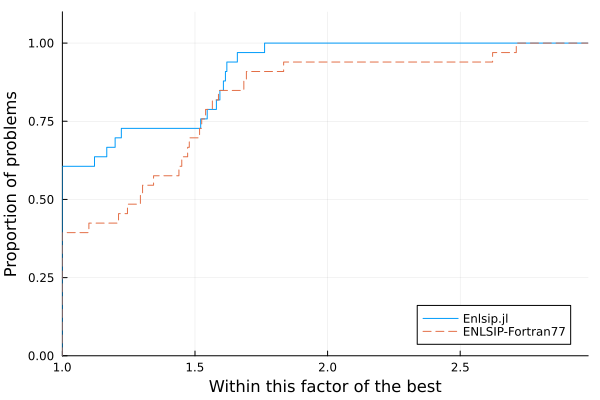
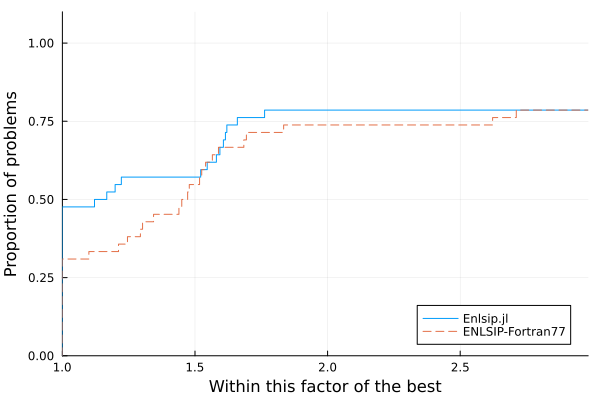
revised draft for joss

diff --git a/paper/paper.md b/paper/paper.md
@@ -29,9 +29,9 @@ bibliography: paper.bib
 
 # Summary
 
- [Enlsip.jl](https://github.com/UncertainLab/Enlsip.jl) is a Julia  [@Julia:2017] package that implements a solver for nonlinear least squares with nonlinear constraints.
+ [Enlsip.jl](https://github.com/UncertainLab/Enlsip.jl) is a Julia  [@Julia:2017] package that implements a solver for nonlinear least-squares problems with nonlinear constraints.
 
-This type of problems is mathematically formulated as:
+This type of problem is mathematically formulated as:
 \begin{equation}\label{eq:cnlls}
          \quad \begin{aligned}  
                         \quad	\min_{x \in \mathbb{R}^n}        \quad&  \dfrac{1}{2} \sum_{i=1}^{m} r_i(x)^2  \\
@@ -50,15 +50,15 @@ This package is the Julia version of ``ENLSIP`` (Easy Nonlinear Least Squares In
 
 The ``ENLSIP`` Fortran77 library has been successfully used since the early 2000s by Hydro-Québec, the main electricity supplier for the province of Quebec in Canada, to calibrate its short-term electricity demand forecast models [@grenieretal:2006], which are coded in Fortran90. Since Hydro-Québec is transitioning from Fortran77 to Julia and its systems are used in a highly critical context, the primary goal of this transition is to ensure that the replacing Julia version reproduces the results obtained with the original Fortran77 version. The conversion of the above-mentioned ``ENLSIP`` library to Julia is a crucial part of this process.
 
-Nonlinear least squares arise in a variety of model calibration scenarios. Formulation \eqref{eq:cnlls} is particularly relevant in contexts where additional constraints, such as those related to physical models, need to be satisfied. This is due to the high-risk nature of Hydro-Québec's forecasting operations. Moreover, the specific structure of the objective function in \eqref{eq:cnlls} can be exploited to design algorithms more efficient than solvers for general nonlinear programming.
+Nonlinear least-squares problems arise in a variety of model calibration scenarios. Formulation \eqref{eq:cnlls} is particularly relevant in contexts where additional constraints, such as those related to physical models, need to be satisfied. This is due to the high-risk nature of Hydro-Québec's forecasting operations. Moreover, the specific structure of the objective function in \eqref{eq:cnlls} can be exploited to design algorithms more efficient than solvers for general nonlinear programming applied to problem  \eqref{eq:cnlls}.
 
 Comparison of results and performance on operational Hydro-Québec optimization problems have been conducted using a Julia-Fortran interface and they have shown very good concordance results. We additionally compared numerical results on nonlinear programming test problems [@hockschittkowski:1980; @lucksanvlcek:1999] to ascertain whether the two versions could yield significantly disparate outcomes or distinct solutions. On the tested problems, we observed no differences in convergence behavior. Furthermore, the obtained solutions did not differ from a predetermined tolerance, the same one we previously employed to ensure the results of our Julia version were consistent with the requirements of Hydro-Québec.
 
 ## Method
 
-The ``ENLSIP`` solver incorporates an iterative Gauss-Newton method. At each iteration, the algorithm solves an approximation of the original problem \eqref{eq:cnlls} obtained by first linearizing both residuals and constraints in a small neighborhood of the current point. Then, a subset of constraints, treated as equalities for the ongoing iteration, is formed. It contains all the equality constraints and the inequality constraints that are believed to be active, i.e. satisfied with equality, at the solution. The strategy implemented by the authors to select the appropriate inequality constraints at each iteration follows the principles exposed in chapter 6 of @gillmurraywright:1985. This results in a subproblem with a linear least-squares objective and linear equality constraints that is solved with a null-space type method [@nocedalwright:2006, chapter 15].
+The ``ENLSIP`` solver incorporates an iterative Gauss-Newton method designed to find a first-order critical point of problem \eqref{eq:cnlls}. At each iteration, the algorithm solves an approximation of the original problem obtained after linearizing both residuals and constraints in a small neighborhood of the current point. Then, a subset of constraints, treated as equalities for the ongoing iteration, is formed. It contains all the equality constraints and the inequality constraints that are believed to be active, i.e. satisfied with equality, at the solution. To select the appropriate inequality constraints at each iteration, the authors implemented a strategy that follows the principles outlined in chapter 6 of @gillmurraywright:1985. The resulting subproblem, with a linear least-squares objective and linear equality constraints, is then solved using a null-space type method [@nocedalwright:2006, chapter 15].
 
-To our knowledge, there is no formal proof of convergence for the method implemented in ENLSIP, although local convergence at a linear rate can be expected from the Gauss-Newton paradigm. In practice, the algorithm performs better when the starting point is relatively close to a solution of the problem. However, the algorithm is not designed for large scale least squares. Performance tend, indeed, to deteriorate on problems with a few hundreds of parameters and constraints $(n+\ell \geq 200)$ and more than a thousand residuals $(m\geq 1000)$.
+To our knowledge, there is no formal proof of convergence for the method implemented in ``ENLSIP``, although local convergence at a linear rate is to be expected from the Gauss-Newton paradigm. In practice, one can observe better performance when the starting point is relatively close to a solution of the problem. However, the algorithm is not suitable for large-scale applications. Indeed, its performance tend to deteriorate on problems with a few hundreds of parameters and constraints $(n+\ell \geq 200)$ and more than a thousand residuals $(m\geq 1000)$.
 
 ## From Fortran77 to Julia
 
@@ -67,7 +67,7 @@ Furthermore, this language is highly convenient for optimization, offering vario
 
 ## Numerical experiments
 
-Performances of the two versions were compared using problems derived from Hydro-Québec operations and also problems from the literature. We illustrate this comparison on the estimation of CM1 model parameters; it is a nonlinear regression model used for the hourly load forecast [@grenieretal:2006]. The calibration process requires the use of weather data collected across the province of Quebec. The configuration of this model can be adapted to the number of parameters to be calibrated and the amount of data to be used. In total, 90 different instances can be thus defined with the following features:
+The performance of the two versions have been compared on problems derived from Hydro-Québec operations and also problems from the literature. We illustrate this comparison on the estimation of CM1 (Carole Mercier-1) model parameters; it is a nonlinear regression model used for the hourly load forecast [@grenieretal:2006]. The calibration process requires the use of weather data collected across the province of Quebec. The configuration of this model can be adapted to the number of parameters to be calibrated and the amount of data to be used. In total, 90 different instances can be thus defined with the following features:
 
 - from 258 to 726 parameters,
 - from 468 to 716 total constraints (with 2 to 10 equalities),
@@ -75,16 +75,16 @@ Performances of the two versions were compared using problems derived from Hydro
 
 Due to the differences in how computations are organized between Fortran77 and Julia, especially in linear algebra, minor numerical discrepancies were expected to emerge and accumulate, leading to slightly different outcomes or total number of iterations performed.
 
-Out of 90 instances, 26 either failed to converge or stopped because of a numerical error occuring during the execution of both ``ENLSIP`` versions. These results were due to inconsistencies in problem formulations of a given family of instances and we thus chose to exclude them from our tests, since they are not representative of the robustness of the method implemented in ENLSIP. We rather considered more relevant to study the 64 remaining instances, for which both versions reached similar solutions that met Hydro-Québec specifications. Although specific values cannot be disclosed in this paper, the performance profile [@dolanmore:2002] in Figure \ref{fig:perf_profile} suggests that our Julia version has similar, if not better, performances than the Fortran77 version. However, these results must be weighted by the number of iterations performed by the two algorithms. Indeed, our Julia version often required less iterations. We argue that the better efficiency of the linear algebra routines from OpenBLAS over those from MINPACK may contribute to reduced computation times.
+Out of 90 instances, 26 either failed to converge or stopped because of a numerical error occuring during the execution of both ``ENLSIP`` versions. These results were due to inconsistencies in the problem formulation of a given family of instances and thus, they do not reflect the robustness of the method implemented in ``ENLSIP``. For the 64 remaining instances, both versions reached similar solutions that met Hydro-Québec specifications. Although specific values cannot be disclosed in this paper, the performance profile [@dolanmore:2002] in Figure \ref{fig:perf_profile} suggests that our Julia version has similar, if not better, performance than the Fortran77 version. However, these results must be weighted by the number of iterations performed by the two algorithms. Indeed, our Julia version often required less iterations. We argue that the better efficiency of the linear algebra routines from OpenBLAS as compared to those from MINPACK may contribute to shorter computation times.
 
-![Computation time performance profile of ENLSIP-Fortran77 (dashed curve) and Enlsip.jl (continuous curve) on 64 instances of the CM1 model calibration.\label{fig:perf_profile}](figures/performance_profile_cm1.png)
+![Computation time performance profile of ENLSIP-Fortran77 (dashed curve) and Enlsip.jl (continuous curve) on 90 instances of the CM1 model calibration.\label{fig:perf_profile}](figures/performance_profile_cm1.png)
 
 ## Other nonlinear least-squares packages
 
-Several existing Julia packages can be used to solve nonlinear least-squares problems, such as [NL2sol.jl](https://github.com/macd/NL2sol.jl), [LsqFit.jl](https://github.com/JuliaNLSolvers/LsqFit.jl) and [LeastSquaresOptim.jl](https://github.com/matthieugomez/LeastSquaresOptim.jl), for unconstrained and bound constrained problems, or [CaNNOLeS.jl](https://github.com/JuliaSmoothOptimizers/CaNNOLeS.jl) for equality constrained problems. However, they do not entirely cover the formulation stated in \eqref{eq:cnlls}, for which general solvers such as [Ipopt.jl](https://github.com/jump-dev/Ipopt.jl) can be used efficiently.
+Several existing Julia packages can be used to solve nonlinear least-squares problems. For unconstrained and bound-constrained problems, these include [NL2sol.jl](https://github.com/macd/NL2sol.jl) [@dennisetal:1981], [LsqFit.jl](https://github.com/JuliaNLSolvers/LsqFit.jl) and [LeastSquaresOptim.jl](https://github.com/matthieugomez/LeastSquaresOptim.jl). Also available are least-squares variants of the  ``TRUNK`` and ``TRON`` [@linmore:1999a] solvers from ``JSOSolvers.jl`` [@jsosolvers:2023]. The [CaNNOLeS.jl](https://github.com/JuliaSmoothOptimizers/CaNNOLeS.jl) [@orbansiquiera:2020] package handles the equality-constrained case. However, these libraries do not entirely apply to the formulation stated in \eqref{eq:cnlls}, for which more general solvers, such as [Ipopt.jl](https://github.com/jump-dev/Ipopt.jl) [@wachterbiegler:2006], are typically used.
 
-Although our package may not incorporate the latest advancements in least squares and nonlinear optimization, especially for large-scale problems, its use remains relevant.
-Indeed, the method employed in ``ENLSIP`` manages to exploit the least-squares structure while also remaining very general, covering nonlinearity and non-convexity of the residuals and constraints. This capability renders it an effective tool for solving problems of reasonable dimensions ($n\leq 500$ and $m\leq 1000$). Moreover, in comparison to other categories, like the unconstrained case [as discussed in @dennisschnabel:1996, chapter 10], this specific class of least squares with general constraints is, to the best of our knowledge, rarely addressed in the literature.
+Although our package may not incorporate the latest advancements in nonlinear optimization, especially for large-scale problems, its use remains relevant.
+Indeed, the method employed in ``ENLSIP`` manages to exploit the least-squares structure while also remaining very general, covering nonlinearity and non-convexity of the residuals and constraints. This capability renders it an effective tool for solving problems of reasonable dimensions ($n\leq 500$ and $m\leq 1000$). Moreover, in comparison to other categories, like the unconstrained case [as discussed in @dennisschnabel:1996, chapter 10], this specific class of least-squares problems with general constraints is, to the best of our knowledge, rarely addressed in the literature.
 
 # Usage
 
@@ -152,7 +152,7 @@ Enlsip.solve!(model)
 
 After solving, there are available methods to get details about the conduct of the algorithm. For instance, on the example presented above, calling `Enlsip.solution(model)` will return the solution found.
 
-Additional information on how to use the package and examples with test problems can be found in the [online documentation](https://uncertainlab.github.io/Enlsip.jl/stable)[^doc].
+The [online documentation](https://uncertainlab.github.io/Enlsip.jl/stable)[^doc] provides additional information on how to use the package and examples with test problems from the literature.
 
 [^doc]: [https://uncertainlab.github.io/Enlsip.jl](https://uncertainlab.github.io/Enlsip.jl)
 
